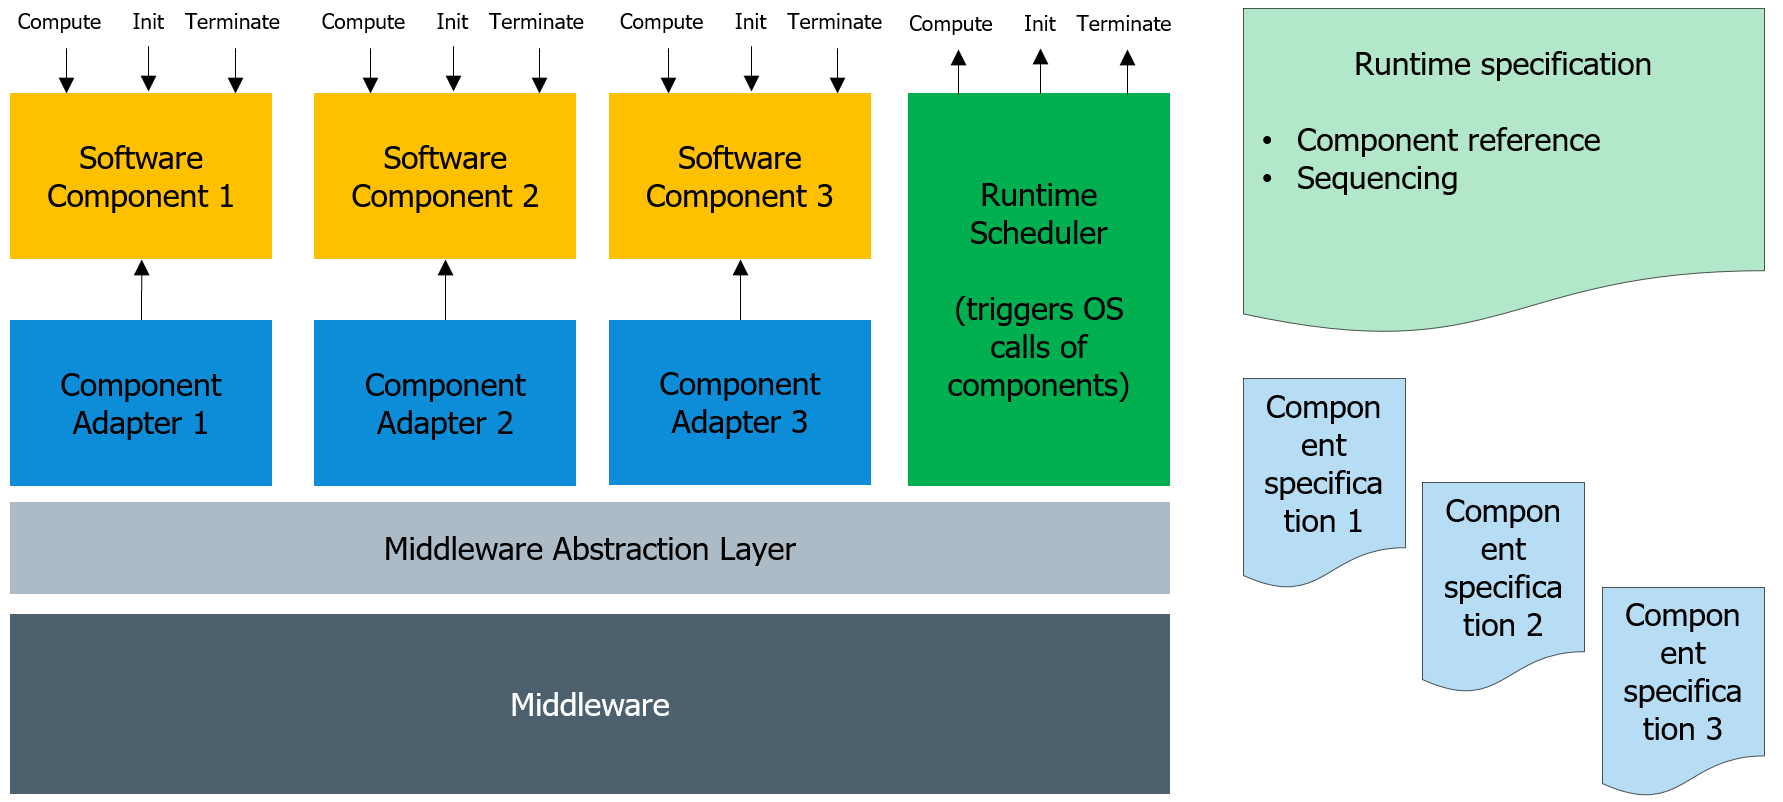
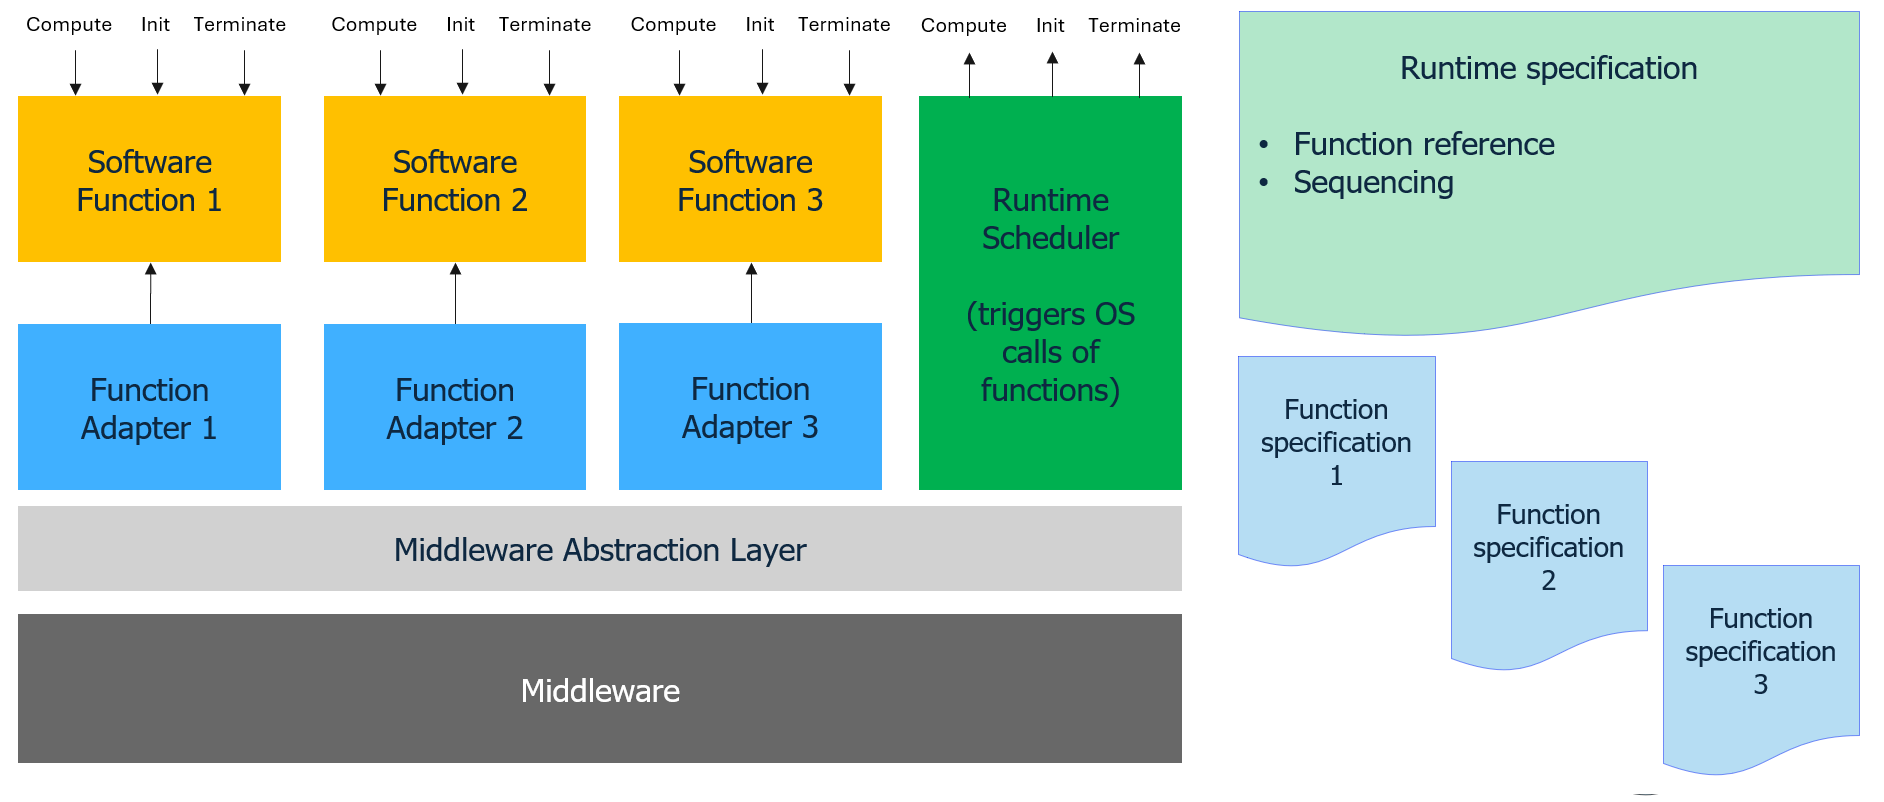
rename component to function

diff --git a/docs/doc/runtime_specification/runtime_specification_file.rst b/docs/doc/runtime_specification/runtime_specification_file.rst
@@ -27,34 +27,34 @@ Software Architecture
 Runtime Specification File
 --------------------------
 
-A :doc:`Component Specification File </doc/component_specification/component_specification_file>` fully describes exactly **one** function in
+A :doc:`Function Specification File </doc/function_specification/function_specification_file>` fully describes exactly **one** function in
 isolation: its signals, its parameters, and the scheduling of its own runnables. It intentionally does not know anything about the other
 functions running on the same system.
 
 A real system, however, is composed of several such functions that need to be instantiated and executed together, in a defined order, and
-connected to the same middleware. The **Runtime Specification File** captures this system-level composition on top of one or more Component
+connected to the same middleware. The **Runtime Specification File** captures this system-level composition on top of one or more Function
 Specification Files:
 
-- **Component reference** - which Component Specification Files (i.e. which functions) are part of this runtime/system.
-- **Sequencing** - the execution order across those functions, i.e. how the ``previousRunnableRef`` chains of the individual components are
+- **Function reference** - which Function Specification Files (i.e. which functions) are part of this runtime/system.
+- **Sequencing** - the execution order across those functions, i.e. how the ``previousRunnableRef`` chains of the individual functions are
   stitched together into one overall schedule.
 
 .. figure:: figures/runtime_specification_architecture.png
    :alt: One Specification - many artefacts
 
-As shown above, each ``Software Component`` (the function's business logic) is executed through its own ``Component Adapter``, which wraps it
+As shown above, each ``Software Function`` (the function's business logic) is executed through its own ``Function Adapter``, which wraps it
 behind the stable, middleware-independent contract defined by the meta model. The ``Runtime Scheduler`` is generated from the Runtime
-Specification File and is responsible for triggering the OS-level ``Init``/``Compute``/``Terminate`` calls of every component, in the order
+Specification File and is responsible for triggering the OS-level ``Init``/``Compute``/``Terminate`` calls of every function, in the order
 described by the Runtime Specification File, through the ``Middleware Abstraction Layer``.
 
 .. note::
-   The Runtime Specification File is not yet formally defined in the meta model (unlike the Component Specification File, which is defined by
+   The Runtime Specification File is not yet formally defined in the meta model (unlike the Function Specification File, which is defined by
    ``Eclipse-autoapiframework-Metamodel`` version 0.3.0). The concepts above describe the intended scope; a versioned schema, file extension,
    and worked examples are still to be added.
 
 Open topics still to be worked out for the Runtime Specification File:
 
-- Mapping of an output signal of one component to the input signal of another (data flow / connections).
-- Explicit dependency declarations between components, beyond the ordering implied by ``previousRunnableRef``.
+- Mapping of an output signal of one function to the input signal of another (data flow / connections).
+- Explicit dependency declarations between functions, beyond the ordering implied by ``previousRunnableRef``.
 - Initialization / system setup information.
 - Deployment information. 

diff --git a/docs/doc/meta_model/meta_model_function_adapter.rst b/docs/doc/meta_model/meta_model_function_adapter.rst
@@ -16,33 +16,33 @@
    #   Thomas Pfleiderer - Meta model added
    # *******************************************************************************
    
-Component Adapter
-=================
+Function Adapter
+================
 
 Overview and Purpose
 --------------------
 
-The ``Component Adapter`` is a critical abstraction layer that bridges vehicle functions with underlying middleware platforms. 
+The ``Function Adapter`` is a critical abstraction layer that bridges vehicle functions with underlying middleware platforms. 
 It serves as a standardized wrapper that enables vehicle functions to be integrated and executed on any middleware without modification.
 
-Key Purposes of the ``Component Adapter``:
+Key Purposes of the ``Function Adapter``:
 
-1. **Middleware Abstraction**: The ``Component Adapter`` decouples the vehicle function implementation from the specific middleware platform, 
+1. **Middleware Abstraction**: The ``Function Adapter`` decouples the vehicle function implementation from the specific middleware platform, 
    allowing the same function logic to run on different runtimes and integration targets.
 
 2. **Static API Contract**: It implements the stable, agreed-upon static API contract derived from the meta model. 
    This contract ensures consistent interface definitions, data types, scheduling behavior, and safety semantics across different implementations.
 
-3. **Safety and Integrity**: The ``Component Adapter`` manages safety-critical aspects including:
+3. **Safety and Integrity**: The ``Function Adapter`` manages safety-critical aspects including:
 
-4. **Portability**: By using the ``Component Adapter`` pattern, vehicle functions become portable artifacts that can be:
+4. **Portability**: By using the ``Function Adapter`` pattern, vehicle functions become portable artifacts that can be:
 
-5. **Not a Full AUTOSAR Application**: The ``Component Adapter`` is not intended to be a complete replacement for an AUTOSAR Application. It focuses on portable function logic and signal access, while platform-specific capabilities such as middleware integration, lifecycle management, diagnostics, persistence, security, and deployment remain the responsibility of the surrounding runtime environment.
+5. **Not a Full AUTOSAR Application**: The ``Function Adapter`` is not intended to be a complete replacement for an AUTOSAR Application. It focuses on portable function logic and signal access, while platform-specific capabilities such as middleware integration, lifecycle management, diagnostics, persistence, security, and deployment remain the responsibility of the surrounding runtime environment.
    
-The ``Component Adapter`` essentially transforms the abstract specifications defined in the meta model and YAML instances into concrete, 
+The ``Function Adapter`` essentially transforms the abstract specifications defined in the meta model and YAML instances into concrete, 
 executable implementations that maintain the agreed contract regardless of the underlying middleware platform.
 
-.. figure:: figures/component_adapter.png
+.. figure:: figures/function_adapter.png
    :alt: signal protection within the stack
 
 Thoughts About Signal Protection

diff --git a/docs/doc/function_specification/function_specification_file.rst b/docs/doc/function_specification/function_specification_file.rst
@@ -21,20 +21,20 @@ Current status of the project:
 .. figure:: ../meta_model/figures/time_line.png
    :alt: time line of the project
    
-Component Specification File
-============================  
+Function Specification File
+===========================  
 
 
-A Component Specification File is characterized by a set of attributes and parameters. Attributes describe the signal itself (e.g., its properties and characteristics), 
+A Function Specification File is characterized by a set of attributes and parameters. Attributes describe the signal itself (e.g., its properties and characteristics), 
 while parameters provide additional configuration and implementation-specific information. Together, they define all information required for API generation and integration.
 
-A Component Specification File always describes exactly **one** function: its ``dataInterfaces``, its ``parameters`` and the scheduling of
+A Function Specification File always describes exactly **one** function: its ``dataInterfaces``, its ``parameters`` and the scheduling of
 its own runnables. It does not describe how this function is combined with other functions, how their signals are connected to each other,
-or in which order several functions execute relative to each other on a system. That system-level composition of multiple Component
+or in which order several functions execute relative to each other on a system. That system-level composition of multiple Function
 Specification Files is described by the :doc:`Runtime Specification File </doc/runtime_specification/runtime_specification_file>`.
 
 
-.. table::  Component: 
+.. table::  Function: 
 
    +----------------+----------+----------------------------------------------------------+-----------------------------------------------------+
    | **Property /   | **Req.** | **Description**                                          | **Example / Notes**                                 |
@@ -75,18 +75,18 @@ Specification Files is described by the :doc:`Runtime Specification File </doc/r
 
 
 
-Component Specification File
+Function Specification File
 ----------------------------
 
 Template Version 0.0.1
 
-.. literalinclude:: autoapiframework_component_specification_template_V01.acs.yaml
+.. literalinclude:: autoapiframework_function_specification_template_V01.afs.yaml
    :language: yaml
    :linenos:
 
 What needs to be added for the SpeedHazardDetection example:
 
-.. literalinclude:: autoapiframework_component_specification_example.acs.yaml
+.. literalinclude:: autoapiframework_function_specification_example.afs.yaml
    :language: yaml
    :linenos:
 

diff --git a/docs/doc/runtime_specification/summary.rst b/docs/doc/runtime_specification/summary.rst
@@ -24,8 +24,8 @@ What we have so far:
 1. Meta Model
 -------------
 
-2. Component Specification
---------------------------
+2. Function Specification
+-------------------------
 
 Contains the definition of a single executable element:
 
@@ -37,7 +37,7 @@ Contains the definition of a single executable element:
 - implementation-independent behavior
 - metadata
 
-Conceptually: Component = "Single function definition"
+Conceptually: Function specification file = "Single function definition"
 
    Examples:
 
@@ -51,20 +51,20 @@ Conceptually: Component = "Single function definition"
 
 Contains the system composition:
 
-- instantiated components
+- instantiated functions
 - dependencies
 - execution sequence
 - data flow
 - event flow
 - deployment hints
 
-Conceptually: Runtime = "How do the components work together?"
+Conceptually: Runtime = "How do the functions work together?"
 
   Examples:
 
   runtime includes
 
-  components:
+  functions:
 
   - VehicleSpeed
   - WheelSpeedFusion
@@ -81,7 +81,7 @@ Conceptually: Runtime = "How do the components work together?"
 4. Naming
 ---------
 
-``*.acs``    AutoAPI Component Specification files
+``*.afs``    AutoAPI Function Specification files
 
 ``*.ars``    AutoAPI Runtime Specification files
 

diff --git a/docs/doc/meta_model/meta_model_purpose.rst b/docs/doc/meta_model/meta_model_purpose.rst
@@ -89,7 +89,7 @@ These YAML files capture function-specific content such as:
 
 Because all YAML instances follow one shared structure, they can be exchanged, reviewed, versioned, and validated early before implementation details are introduced.
 
-The file extension of these files will be ``*.acs`` (AutoAPI Component Specification).
+The file extension of these files will be ``*.afs`` (AutoAPI Function Specification).
 
 
 Role of Code Generators
@@ -127,5 +127,5 @@ Currently we have a Meta Model in place with additional parameters and attribute
 .. figure:: figures/specification_sequence.png
    :alt: status of the current project
 
-An ``*.acs`` file does not use the VSPEC format. Instead, it is defined in YAML format.
+An ``*.afs`` file does not use the VSPEC format. Instead, it is defined in YAML format.
 

diff --git a/docs/doc/meta_model/meta_model.rst b/docs/doc/meta_model/meta_model.rst
@@ -160,7 +160,7 @@ History
 Examples
 --------
 
-Example component specifications based on this meta model:
+Example function specifications based on this meta model:
 
-- :download:`SpeedHazardDetection (single cyclic runnable) <../component_specification/examples/speed_hazard_detection.acs.yaml>`
-- :download:`VehicleSpeedFusion (multi-rate cyclic runnables at 10 ms and 20 ms) <../component_specification/examples/vehicle_speed_fusion_multirate.acs.yaml>`
+- :download:`SpeedHazardDetection (single cyclic runnable) <../function_specification/examples/speed_hazard_detection.afs.yaml>`
+- :download:`VehicleSpeedFusion (multi-rate cyclic runnables at 10 ms and 20 ms) <../function_specification/examples/vehicle_speed_fusion_multirate.afs.yaml>`

diff --git a/docs/index.rst b/docs/index.rst
@@ -42,16 +42,16 @@ Meta Model:
 
    doc/meta_model/meta_model_purpose
    doc/meta_model/meta_model
-   doc/meta_model/meta_model_component_adapter
+   doc/meta_model/meta_model_function_adapter
 
-Component Specification File:
+Function Specification File:
 -----------------------------
 
 .. toctree::
    :maxdepth: 1
 
-   doc/component_specification/component_specification_file
-   doc/component_specification/component_specification_examples
+   doc/function_specification/function_specification_file
+   doc/function_specification/function_specification_examples
    
 Software Architecture:
 ----------------------

diff --git a/docs/doc/function_specification/examples/vehicle_speed_fusion_multirate_example.rst b/docs/doc/function_specification/examples/vehicle_speed_fusion_multirate_example.rst
@@ -18,8 +18,8 @@
 VehicleSpeedFusion Multi-Rate Example
 =====================================
 
-This example shows a multi-rate component specification with two cyclic runnables.
+This example shows a multi-rate function specification with two cyclic runnables.
 
-.. literalinclude:: vehicle_speed_fusion_multirate.acs.yaml
+.. literalinclude:: vehicle_speed_fusion_multirate.afs.yaml
    :language: yaml
    :linenos:

diff --git a/docs/doc/function_specification/examples/speed_hazard_detection_example.rst b/docs/doc/function_specification/examples/speed_hazard_detection_example.rst
@@ -18,8 +18,8 @@
 SpeedHazardDetection Example
 ============================
 
-This example shows a single cyclic runnable component specification.
+This example shows a single cyclic runnable function specification.
 
-.. literalinclude:: speed_hazard_detection.acs.yaml
+.. literalinclude:: speed_hazard_detection.afs.yaml
    :language: yaml
    :linenos:
